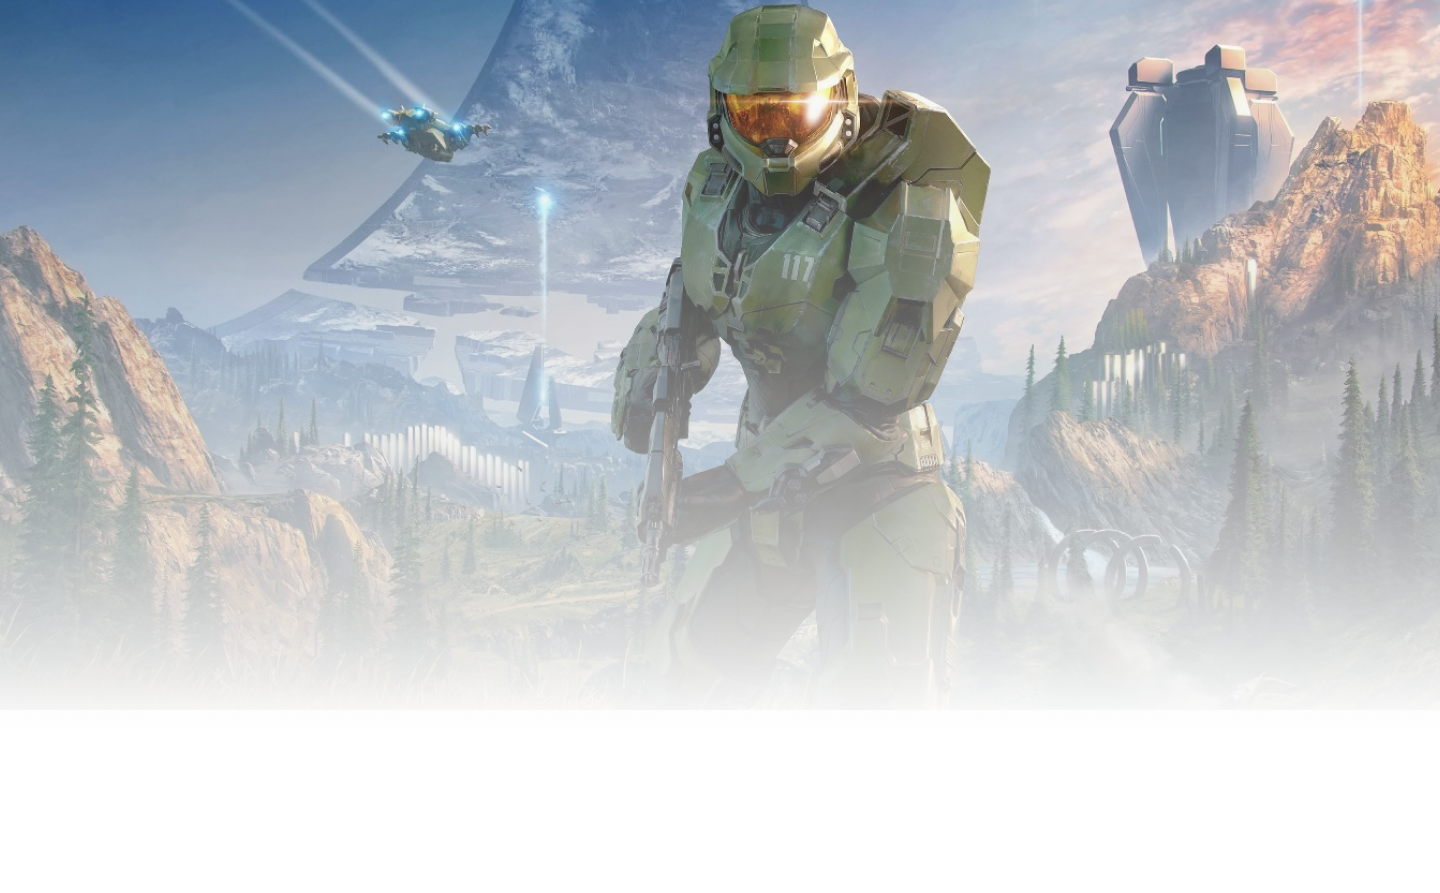
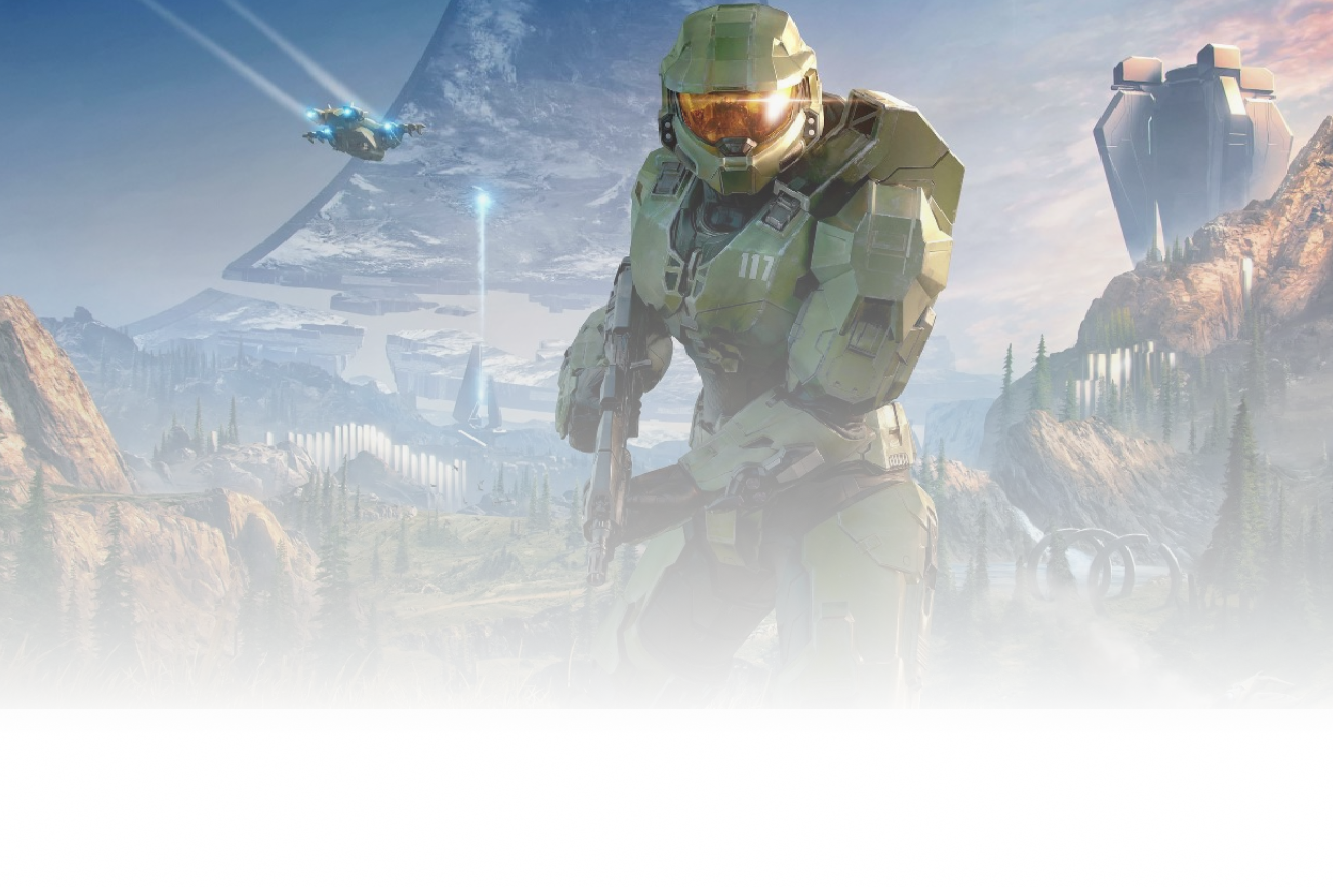
adiciona a imagem de fundo e a descrição

diff --git a/estilo.css b/estilo.css
@@ -4,12 +4,8 @@
 }
 
 body {
-	background: #3A3A3A;
-}
-
-.borda {
 	clear: both;
-	border-bottom: 3px solid #B7B7B7;
+	background: #3A3A3A;
 }
 
 img#logo {
@@ -18,6 +14,18 @@ img#logo {
 	width: 120px;
 	height: 32px;
 	float: left;
+}
+
+h1 {
+	width: 120px;
+	height: 32px;
+	margin-left: 20px;
+	margin-top: 0;
+	float: left;
+	font-family: X360;
+	letter-spacing: 35px;
+	text-transform: uppercase;
+	color: #B7B7B7;
 }
 
 ul {
@@ -45,20 +53,30 @@ a:hover {
 	padding: 5px 5px;
 }
 
-h1 {
-	width: 120px;
-	height: 32px;
-	margin-left: 20px;
-	margin-top: 0;
-	float: left;
-	font-family: X360;
-	letter-spacing: 35px;
-	text-transform: uppercase;
-	color: #B7B7B7;
-}
-
 nav {
 	float: right;
+}
+
+.borda {
+	clear: both;
+	border-bottom: 3px solid #B7B7B7;
+}
+
+.imagem {
+	background: url(imagens/fundo1.png) no-repeat;
+	width: 1333px;
+	height: 887px;
+}
+
+.descricao {
+	font-size: 20px;
+	font-family: X360;
+	padding-left: 100px;
+	padding-top: 140px;
+	position: absolute;
+    color:#000;
+    text-align: center;
+    width: 500px;
 }
 
 footer {
@@ -68,4 +86,5 @@ footer {
 	background: #D8D8D8;
 	padding: 0.1em;
 	width: 100%;
+	margin-top: 5px;
 }

diff --git a/index.html b/index.html
@@ -9,7 +9,7 @@
 	</head>
 	<body>
 
-		<header>
+		<header><!-- inicio topo -->
 			<img id="logo" src="imagens/logo2.png">
 			<h1>CLOUD</h1>
 		</header>
@@ -22,7 +22,17 @@
 			</ul>
 		</nav>
 
-		<div class="borda"></div>
+		<div class="borda"></div><!-- /fim topo -->
+
+		<div class="imagem">
+			
+			<div class="descricao"><!-- inicio descricao -->
+			
+				<h2>Xbox Cloud Gaming</h2>
+				<p>Jogue mais de 100 jogos de console de alta qualidade nos dispositivos que você já tem. Pode jogar usando um controlador Xbox, Sony DualShock 4, Razer Kishi e muito mais.</p>
+
+			</div><!-- /fim descricao -->
+		</div>
 
 		<footer>
 			<p>&copy; Microsoft 2022</p>
